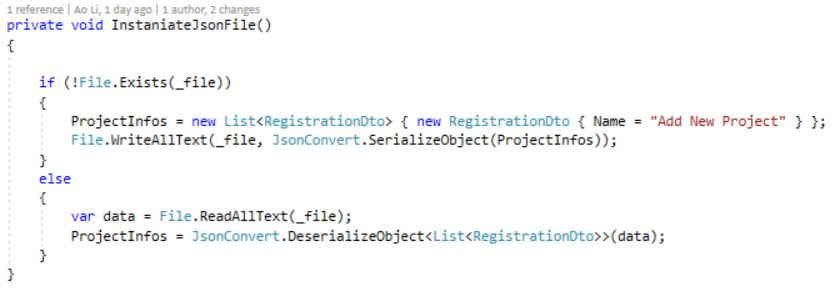
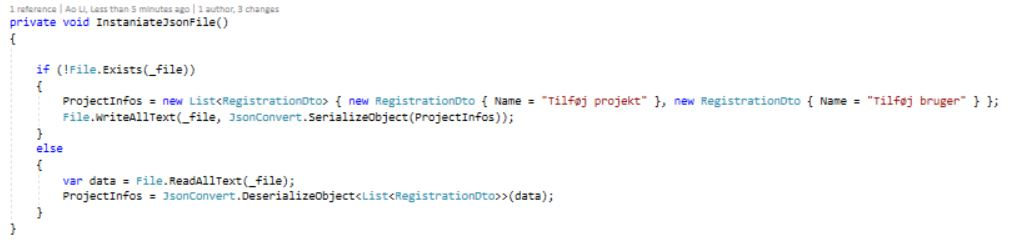
fafa

diff --git a/Bachelor Rapport/LaTeX/ArkitekturDesign/Design/ProjectList/ProjectList.tex b/Bachelor Rapport/LaTeX/ArkitekturDesign/Design/ProjectList/ProjectList.tex
@@ -1,7 +1,8 @@
+\subsection{Projekt Oversigt} \label{sec:ProjectList}
 Dette afsnit indeholder en gennemgang af grafisk brugergrænseflade, design og implementering af 'Project List' viewet i Rambøll Tilsyn.
 
 \subsubsection{Design}
-På figur \ref{fig:ProjctListSekvens} ses sekvens diagrammet for 'Project List' viewet til Rambøll Tilsyn.
+%På figur \ref{fig:ProjctListSekvens} ses sekvens diagrammet for 'Project List' viewet til Rambøll Tilsyn.
 %\begin{figure}[H] % (alternativt [H])
 %	\centering
 %	\includegraphics[height=15cm, width=15cm]{../ArkitekturDesign/Design/Login/LoginSekvensDiagram}
@@ -12,7 +13,7 @@ På figur \ref{fig:ProjctListSekvens} ses sekvens diagrammet for 'Project List' 
 \clearpage
 
 \subsubsection{Grafisk brugergrænseflade}
-I LoginViewet er der lavet felter til at bruger indtaster sit brugernavn og kodeord. Se figur \ref{fig:ProjectListView}
+I ProjectListViewet er der en oversigt over hvilke projekter der ligger i databasen, samt mulighed for øverst at tilføje projekt eller tilføj bruger. Se figur \ref{fig:ProjectListView}
 \begin{figure}[H] % (alternativt [H])
 	\centering
 	\includegraphics[height=12cm, width=10cm]{../ArkitekturDesign/Design/ProjectList/ProjectList}
@@ -25,10 +26,64 @@ I LoginViewet er der lavet felter til at bruger indtaster sit brugernavn og kode
 \subsubsection{Implementering}
 I dette afsnit vil der blive beskrevet funktionaliteten for de vigtigste funktioner i koden tilhørende 'Login' viewet.
 
-På figur \ref{fig:Checkifusersigned}, ses funktionen for CheckIfUserSignedIn.
+På figur \ref{fig:ProjectListViewController}, ses konstrukteren til ProjectViewListController.
 \begin{figure}[H] % (alternativt [H])
 	\centering
-	\includegraphics[height=8cm, width=15cm]{../ArkitekturDesign/Design/Login/Checkifusersigned}
+	\includegraphics[height=5cm, width=17cm]{../ArkitekturDesign/Design/ProjectList/ProjectListViewController}
 	\caption{}
-	\label{fig:Checkifusersigned}
+	\label{fig:ProjectListViewController}
 \end{figure}
+Det første er at der hentes en reference node med navn PDF fra Firebase, og fortæller at denne node skal holdes synkroniseret, i tilfælde af data ændring. \\
+Efterfølgende initialiseres JSON filen, og synkrorinisere efterfølgende med Firebase.
+
+På figur \ref{fig:JSONFile}, ses funktionen for InstaniateJsonFile().
+\begin{figure}[H] % (alternativt [H])
+	\centering
+	\includegraphics[height=5cm, width=15cm]{../ArkitekturDesign/Design/ProjectList/JSONFile}
+	\caption{}
+	\label{fig:JSONFile}
+\end{figure}
+Der oprettes en JSON fil, hvis der ikke findes en i forvejen. Denne gemmes lokalt.\\
+Hvis der findes en JSON fil, læses data fra filen.
+
+\clearpage
+
+På figur \ref{fig:SyncWithDB}, ses funktionen for SyncWithFirebaseDatabase().
+\begin{figure}[H] % (alternativt [H])
+	\centering
+	\includegraphics[height=8cm, width=15cm]{../ArkitekturDesign/Design/ProjectList/SyncWithDB}
+	\caption{}
+	\label{fig:SyncWithDB}
+\end{figure}
+Noden som er oprettet i konstrukteren, som ses på figur \ref{fig:ProjectListViewController}, den vedhæftes til et event, som kaldes hver gang noden ændres. \\
+Når eventet kaldes, læses data fra eventet og gemmer dette i JSON filen. Efterfølgende fortælles controlleren at viewet skal opdateres.
+
+På figur \ref{fig:ViewDidLoad}, ses funktionen for ViewDidLoad().
+\begin{figure}[H] % (alternativt [H])
+	\centering
+	\includegraphics[height=3cm, width=10cm]{../ArkitekturDesign/Design/ProjectList/ViewDidLoad}
+	\caption{}
+	\label{fig:ViewDidLoad}
+\end{figure}
+Her sættes ListViewets source til at være TableSource.
+
+På figur \ref{fig:TableSource}, ses konstrukteren til TableSource.
+\begin{figure}[H] % (alternativt [H])
+	\centering
+	\includegraphics[height=2cm, width=15cm]{../ArkitekturDesign/Design/ProjectList/TableSource}
+	\caption{}
+	\label{fig:TableSource}
+\end{figure}
+Der initialiseres hvilke værdier der skal fremvises og der er givet en reference til ProjctListViewControlleren.
+
+På figur \ref{fig:RowSelection}, ses funktionen for RowSelected().
+\begin{figure}[H] % (alternativt [H])
+	\centering
+	\includegraphics[height=8cm, width=17cm]{../ArkitekturDesign/Design/ProjectList/RowSelection}
+	\caption{}
+	\label{fig:RowSelection}
+\end{figure}
+Der er en switch case, case 0 giver bruger mulighed for at navigere til 'Opret projekt' siden. Case 1 navigere brugeren til 'Opret bruger' siden. \\
+Ellers skal den navigere brugeren til PDFViewControlleren, for det valgte projekt.
+
+\clearpage

diff --git a/Bachelor Rapport/LaTeX/ArkitekturDesign/Design/RegisterPDF/RegisterPDF.tex b/Bachelor Rapport/LaTeX/ArkitekturDesign/Design/RegisterPDF/RegisterPDF.tex
@@ -49,3 +49,64 @@ Den sidste knap er en liste knap som giver brugeren mulighed for at afslutte sin
 \clearpage
 
 \subsubsection{Implementering}
+I dette afsnit vil der blive beskrevet funktionaliteten for de vigtigste funktioner i koden tilhørende 'Registrering på PDF' viewet.
+
+På figur \ref{fig:LoadPDF}, ses funktionen for LoadPDF().
+\begin{figure}[H] % (alternativt [H])
+	\centering
+	\includegraphics[height=4cm, width=10cm]{../ArkitekturDesign/Design/RegisterPDF/LoadPDF}
+	\caption{}
+	\label{fig:LoadPDF}
+\end{figure}
+Efter PDF'en er blevet downloadet fra Firebase, gemmes denne lokalt. \\
+Der tjekkes om url'en er en fil url. Er dette en fil url loades PDF'en ind i viewt. \\
+Når PDF'en er loadet ind i viewet, oprettes symbol knapperne. \\
+Når både PDFViewet og PDFBottomPanel er loadet, loades disse ind i controllerens view.
+
+\clearpage
+
+På figur \ref{fig:LoadPDF}, ses funktionen for LoadBtnPanel().
+\begin{figure}[H] % (alternativt [H])
+	\centering
+	\includegraphics[height=8cm, width=15cm]{../ArkitekturDesign/Design/RegisterPDF/LoadBtnPanel1}
+\end{figure}
+\begin{figure}[H] % (alternativt [H])
+	\centering
+	\includegraphics[height=8cm, width=15cm]{../ArkitekturDesign/Design/RegisterPDF/LoadBtnPanel2}
+	\caption{}
+	\label{fig:LoadBtnPanel2}
+\end{figure}
+Her oprettes UIView, som indeholder vores knapper, der loades ind fra PanelBottomFactory. \\
+PanelBottomFactory er en klasse som står at oprette knapperne. \\
+Når knapperne er oprettet definere vi events på de forskellige knapper. \\
+
+\clearpage
+
+På figur \ref{fig:ClassPage}, ses funktionen for ClassPage().
+\begin{figure}[H] % (alternativt [H])
+	\centering
+	\includegraphics[height=3cm, width=10cm]{../ArkitekturDesign/Design/RegisterPDF/ClassPage}
+	\caption{}
+	\label{fig:ClassPage}
+\end{figure}
+Der overrides funktionen ClassForPage, som er en obejktive C funktion, der normalt returnere en standard PDF page, til vores typeof(MarkedPdfPage).
+
+På figur \ref{fig:Draw}, ses funktionen for Draw().
+\begin{figure}[H] % (alternativt [H])
+	\centering
+	\includegraphics[height=10cm, width=15cm]{../ArkitekturDesign/Design/RegisterPDF/Draw}
+	\caption{}
+	\label{fig:Draw}
+\end{figure}
+Når PDF pagen bliver oprettet, kaldes draw og denne er overridet til at tegne på PDF'en med de objekter som bliver hentet fra JSON filen. Disse tegnes ind på PDF'en.
+
+\clearpage
+
+På figur \ref{fig:Enum}, ses funktionen for Render().
+\begin{figure}[H] % (alternativt [H])
+	\centering
+	\includegraphics[height=3cm, width=8cm]{../ArkitekturDesign/Design/RegisterPDF/Enum}
+	\caption{}
+	\label{fig:Enum}
+\end{figure}
+Definitionen på vores symboler.

diff --git a/Bachelor Rapport/LateX/BachelorRapport/FremtidigtArbejde/FremtidigtArbejde.tex b/Bachelor Rapport/LateX/BachelorRapport/FremtidigtArbejde/FremtidigtArbejde.tex
@@ -1,7 +1,13 @@
 \chapter{Fremtidigt arbejde}
 I dette kapitel er beskrevet hvad næste skridt ville være, hvis der skulle videreudvikles på Rambøll Tilsyn.
 
+I forlængelse af projektet Rambøll Tilsyn, er der mange muligheder for videreudvikling og optimering.\\
+Det første arbejde der skulle udføres ville være implementeringen af de user stories, som ikke er blevet implementeret i prototypen. Her tænkes bl.a. på user stories fra \textbf{Must} kategorien, da dette vil give et minimum viable product, som vil kunne gøre at Rambøll ville kunne begynde at bruge systemet, mens resten blev implementeret. \\
+Når alle user stories er implementeret ville der ligge en opgave i at kunne ændre objekter, efter de er oprettet og gemt. Hvis der f.eks. oprettes et minus objekt, første gang der laves en registrering på et projekt, og dette skal ændres til et flueben, næste gang at der bliver lavet en registrering. Minus objeket skal så kunne ændres ved at bruger laver et long press på objektet. Der vil så komme et vindue op, hvor bruger kan ændre symbolet og evt skrive en kommentar. Dette vil jo så blive gemt, og vil komme med i tilsyns dokumentet når dette bliver eksporteret. \\
+Der er i projektet blevet lavet et produkt med en Firebase database. Et andet punkt til fremtidig arbejde kunne være at få flyttet database delen over på Rambølls egne servere. Dette kommer selvfølgelig an på om de ønsker at have databasen intern i huset, eller om de tænker at produktet fungere bedre med Firebase databasen, så ville de blot skulle overtage administrationen af denne. 
 
+Når systemet som beskrevet i dette projekt er færdig implementeret, ville en fremtidig feature til systemet være 3D rendering af tegninger. Dette skal kunne gøre så at brugeren i stedet for at registre på en PDF tegning, ville kunne få en 3D tegning af byggeprojektet, som der kunne laves registreringer på.
 
+Når alt ovenstående er implementeret, minus 3D rendering, ville det sidste skridt være at overlevere systemet til Rambøll, så det kunne blive implementeret i deres systemer og arbejdsproces.
 
-Ændre symbol med long press
+mere test og fejl håndtering build server

diff --git a/Bachelor Rapport/LaTeX/ArkitekturDesign/Design/Login/Login.tex b/Bachelor Rapport/LaTeX/ArkitekturDesign/Design/Login/Login.tex
@@ -26,7 +26,7 @@ I LoginViewet er der lavet felter til at bruger indtaster sit brugernavn og kode
 \subsubsection{Implementering}
 I dette afsnit vil der blive beskrevet funktionaliteten for de vigtigste funktioner i koden tilhørende 'Login' viewet.
 
-På figur \ref{fig:Checkifusersigned}, ses funktionen for CheckIfUserSignedIn.
+På figur \ref{fig:Checkifusersigned}, ses funktionen for CheckIfUserSignedIn().
 \begin{figure}[H] % (alternativt [H])
 	\centering
 	\includegraphics[height=8cm, width=15cm]{../ArkitekturDesign/Design/Login/Checkifusersigned}
@@ -37,7 +37,7 @@ Først tjekker funktionen Firebases default instance, og ser om der er en bruger
 Er der en bruger logget ind, hoppes log ind over, og projekt listen bliver vist. \\
 Ellers udskriver den at ingen bruger er logget ind.
 
-På figur \ref{fig:ViewDidLoad}, ses funktionen for ViewDidLoad.
+På figur \ref{fig:ViewDidLoad}, ses funktionen for ViewDidLoad().
 \begin{figure}[H] % (alternativt [H])
 	\centering
 	\includegraphics[height=7cm, width=12cm]{../ArkitekturDesign/Design/Login/ViewDidLoad}
@@ -51,7 +51,7 @@ I ViewDidLoad, delegeres en eventhandler til LoginBtn.TouchUpInside. \\
 Den indsætter placeholders i tekstfelterne Email og kodeord. Derudover maskere den inputs i kodeords tekstfeltet.
 I ViewDidUnload fjernes eventhandleren fra LoginBtn.TouchUpInside, fordi at hvis dette ikke gøres, kan der opstå memory leak. \\
 
-På figur \ref{fig:LoginBtn}, ses funktionen for LoginBtn.
+På figur \ref{fig:LoginBtn}, ses funktionen for LoginBtn.TouchUpInside().
 \begin{figure}[H] % (alternativt [H])
 	\centering
 	\includegraphics[height=10cm, width=18cm]{../ArkitekturDesign/Design/Login/LoginBtn}

diff --git a/Bachelor Rapport/LaTeX/ArkitekturDesign/Design/OpretBruger/OpretBruger.tex b/Bachelor Rapport/LaTeX/ArkitekturDesign/Design/OpretBruger/OpretBruger.tex
@@ -19,8 +19,22 @@ I OpretBrugerViewet er der lavet felter til alt det information, som skal tastes
 	\label{fig:OpretBrugerView}
 \end{figure}
 
+\clearpage
+
 \subsubsection{Implementering}
-Når der skal oprettes en ny bruger, validerer controlleren at der er indtastet information i alle felter,
-inden at informationen bliver sendt videre til modellen. Hvis et felt ikke er udfyldt giver controlleren fejlbesked til viewet. \\
+I dette afsnit vil der blive beskrevet funktionaliteten for de vigtigste funktioner i koden tilhørende 'Opret bruger' viewet.
+
+På figur \ref{fig:CreateUser}, ses funktionen for CreateUser().
+\begin{figure}[H] % (alternativt [H])
+	\centering
+	\includegraphics[height=8cm, width=17cm]{../ArkitekturDesign/Design/OpretBruger/CreateUser1}
+\end{figure}
+\begin{figure}[H] % (alternativt [H])
+	\centering
+	\includegraphics[height=8cm, width=17cm]{../ArkitekturDesign/Design/OpretBruger/CreateUser2}
+	\caption{}
+	\label{fig:CreateUser}
+\end{figure}
+Alle felter valideres. Derefter hvis alt er godkendt, oprettes brugeren med de input der er kommet fra viewet. Når brugeren er blevet uden problemer, skrives informationen som ikke har noget med log ind at gøre; Fornavn, Efternavn osv. ind i databasen.
 
 \clearpage

diff --git a/Bachelor Rapport/LaTeX/BachelorRapport/Design/Applikation/ProjektList/ProjektList.tex b/Bachelor Rapport/LaTeX/BachelorRapport/Design/Applikation/ProjektList/ProjektList.tex
@@ -1,0 +1,30 @@
+\subsection{Projekt Oversigt}
+I dette afsnit vises design, bruger grænseflade, implementering og test for 'ProjectList' viewet. For den fulde dokumentation henvises til Arkitektur og Design dokumentationens afsnit \ref{Design-sec:Opretbruger}.
+
+\subsubsection{Design}
+%På figur \ref{fig:ProjctListSekvens} ses sekvens diagrammet for 'Project List' viewet til Rambøll Tilsyn.
+%\begin{figure}[H] % (alternativt [H])
+%	\centering
+%	\includegraphics[height=15cm, width=15cm]{../ArkitekturDesign/Design/Login/LoginSekvensDiagram}
+%	\caption{Sekvensdiagram for Login i Rambøll Tilsyn.}
+%	\label{fig:ProjctListSekvens}
+%\end{figure}
+
+\clearpage
+
+\subsubsection{Grafisk brugergrænseflade}
+I ProjectListViewet er der en oversigt over hvilke projekter der ligger i databasen, samt mulighed for øverst at tilføje projekt eller tilføj bruger. Se figur \ref{fig:ProjectListView}
+\begin{figure}[H] % (alternativt [H])
+	\centering
+	\includegraphics[height=12cm, width=10cm]{Design/Applikation/ProjektList/ProjectList}
+	\caption{Login viewet som det er implementeret i Rambøll Tilsyn.}
+	\label{fig:ProjectListView}
+\end{figure}
+
+\clearpage
+
+\subsubsection{Implementering}
+
+\subsubsection{Test}
+
+\clearpage

diff --git a/Bachelor Rapport/LaTeX/ArkitekturDesign/Design/Eksportering/Eksportering.tex b/Bachelor Rapport/LaTeX/ArkitekturDesign/Design/Eksportering/Eksportering.tex
@@ -1,0 +1,26 @@
+\subsection{Eksportering} \label{sec:Login}
+Dette afsnit indeholder en gennemgang af grafisk brugergrænseflade, design og implementering af 'Export viewet' i Rambøll Tilsyn.
+
+\subsubsection{Design}
+På figur \ref{fig:EksporterSekvensDiagram} ses sekvens diagrammet for 'Export' viewet til Rambøll Tilsyn.
+\begin{figure}[H] % (alternativt [H])
+	\centering
+	\includegraphics[height=10cm, width=10cm]{../ArkitekturDesign/Design/Eksportering/EksporterSekvensDiagram}
+	\caption{Sekvensdiagram for Eksportering i Rambøll Tilsyn.}
+	\label{fig:EksporterSekvensDiagram}
+\end{figure}
+
+\clearpage
+
+\subsubsection{Grafisk brugergrænseflade}
+Efter at have eksporteret registreringen i en excel, vil den se ud som på figur \ref{fig:Excel}.
+\begin{figure}[H] % (alternativt [H])
+	\centering
+	\includegraphics[height=12cm, width=17cm]{../ArkitekturDesign/Design/Eksportering/Excel}
+	\caption{Export viewet som det er implementeret i Rambøll Tilsyn.}
+	\label{fig:Excel}
+\end{figure}
+
+\subsubsection{Implementering}
+
+\clearpage

diff --git a/Kode/RamboellTilSyn/RamboellTilSyn/CreateUserViewController.designer.cs b/Kode/RamboellTilSyn/RamboellTilSyn/CreateUserViewController.designer.cs
@@ -58,14 +58,6 @@ namespace Ramboell.iOS
         [GeneratedCode ("iOS Designer", "1.0")]
         UIKit.UITextField PhoneCreateUserTxt { get; set; }
 
-        [Outlet]
-        [GeneratedCode ("iOS Designer", "1.0")]
-        UIKit.UILabel UsernameCreateUserLabel { get; set; }
-
-        [Outlet]
-        [GeneratedCode ("iOS Designer", "1.0")]
-        UIKit.UITextField UserNameCreateUserTxt { get; set; }
-
         void ReleaseDesignerOutlets ()
         {
             if (CreateUserBtn != null) {
@@ -121,16 +113,6 @@ namespace Ramboell.iOS
             if (PhoneCreateUserTxt != null) {
                 PhoneCreateUserTxt.Dispose ();
                 PhoneCreateUserTxt = null;
-            }
-
-            if (UsernameCreateUserLabel != null) {
-                UsernameCreateUserLabel.Dispose ();
-                UsernameCreateUserLabel = null;
-            }
-
-            if (UserNameCreateUserTxt != null) {
-                UserNameCreateUserTxt.Dispose ();
-                UserNameCreateUserTxt = null;
             }
         }
     }

diff --git a/Kode/RamboellTilSyn/RamboellTilSyn/CreateUserViewController.cs b/Kode/RamboellTilSyn/RamboellTilSyn/CreateUserViewController.cs
@@ -25,7 +25,6 @@ namespace Ramboell.iOS
 
         private void CreateUser(object sender, EventArgs e)
         {
-        var s = Auth.DefaultInstance;
             if (isFieldsValid())
         
         Auth.DefaultInstance.CreateUser(EmailCreateUserTxt.Text, PasswordCreateUserTxt.Text, (user, error) => {
@@ -36,7 +35,7 @@ namespace Ramboell.iOS
                         errorCode = (AuthErrorCode)((long)error.Code);
                     else // 32 bits devices
                         errorCode = (AuthErrorCode)((int)error.Code);
-
+                     
                     // Posible error codes that CreateUser method could throw
                     switch (errorCode)
                     {
@@ -52,7 +51,6 @@ namespace Ramboell.iOS
                 }
                 else
                 {
-                    //TODO MORTEN adder extra user data til firebase 
                     Console.WriteLine("Succesfully Created A User");
                     userNode = userNode.GetChild(user.Uid);
                     object[] keys = {

diff --git a/Bachelor Rapport/LaTeX/Moeder/14 Møde med Lars d. 13-12/Referat.tex b/Bachelor Rapport/LaTeX/Moeder/14 Møde med Lars d. 13-12/Referat.tex
@@ -41,6 +41,9 @@
 				Kan tage afsnit med
 				\item Beskrivelse af implementering af koden? - Kode snips + forklaring eller Tabel opstilling ish. \\
 				Vigtigste funktioner
+				\item Appdelegate, skal dette beskrives i implementeringen? Hvis ja, hvor?
+				\item Figur tekster til kode snips, reference til koden/kodefilen?
+				\item Hvordan skriver vi implementeringen hvis der kun er lavet design?
 				\item Hvor ligger vi ud fra det du har læst?	
 			\end{itemize}
 	
@@ -50,7 +53,7 @@
 		\item \textbf{Evt.}
 			\begin{itemize}[-]
 				\item User stories skrives til testcases
-				\item Appdelegate, skal dette beskrives i implementeringen? Hvis ja, hvor?
+				
 			\end{itemize}
 			
 	\end{enumerate}

diff --git a/Bachelor Rapport/LaTeX/ArkitekturDesign/Design/OpretProjekt/OpretProjekt.tex b/Bachelor Rapport/LaTeX/ArkitekturDesign/Design/OpretProjekt/OpretProjekt.tex
@@ -20,7 +20,6 @@ I OpretProjektViewet er der lavet felter til alt det information, som skal taste
 \end{figure}
 
 \subsubsection{Implementering}
-Når der skal oprettes et nyt projekt, validerer controlleren at der er indtastet information i alle felter,
-inden at informationen bliver sendt videre til modellen. Hvis et felt ikke er udfyldt giver controlleren fejlbesked til viewet. \\
+
 
 \clearpage

diff --git a/Bachelor Rapport/LaTeX/ArkitekturDesign/Ordforklaring/Ordforklaring.tex b/Bachelor Rapport/LaTeX/ArkitekturDesign/Ordforklaring/Ordforklaring.tex
@@ -4,7 +4,7 @@
 \begin{tabularx}{\textwidth}{l l X} \hline
 	\textbf{Forkortelse}  & \textbf{Forklaring} \\ \hline
 	Internet&  En trådløs internetforbindelse som f.eks. 3G eller Wifi& \\
-	JSON& & \\
+	JSON& JavaScript Object Notation& \\
 	MVC& Model-View-Controller& \\
 	PDF& Portable Document Format& \\ 
 	
